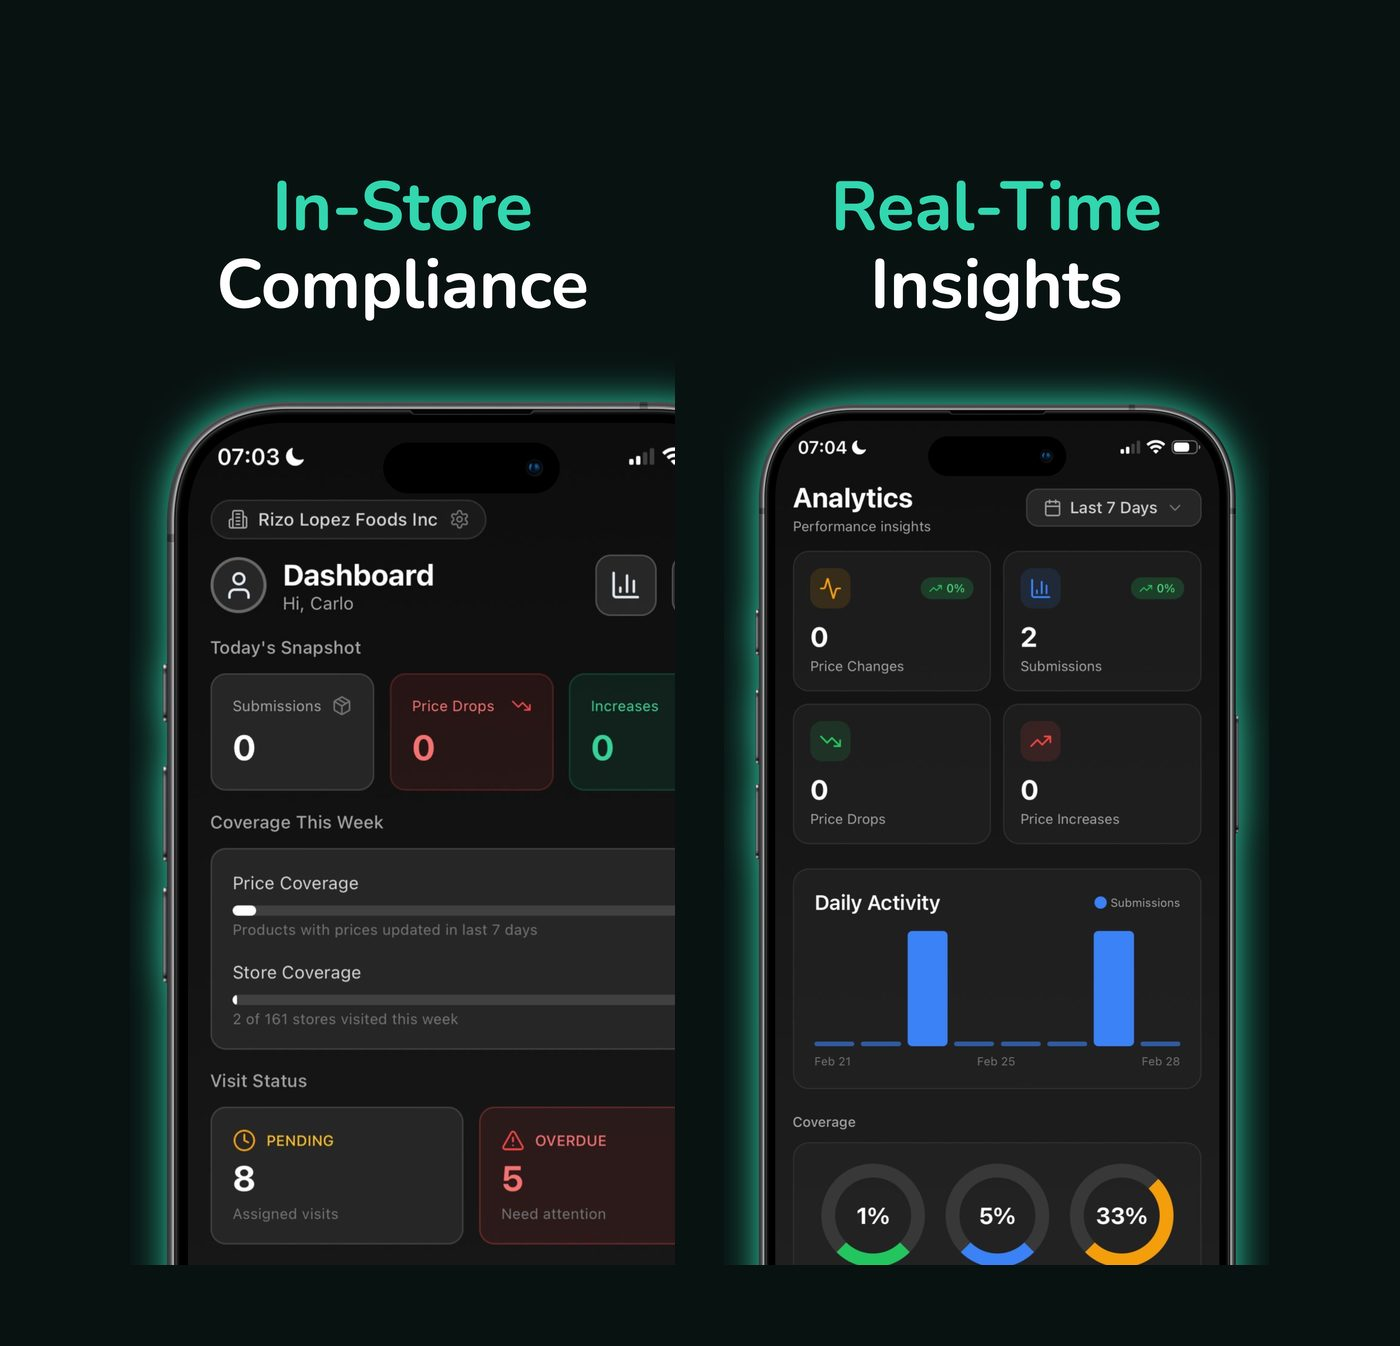
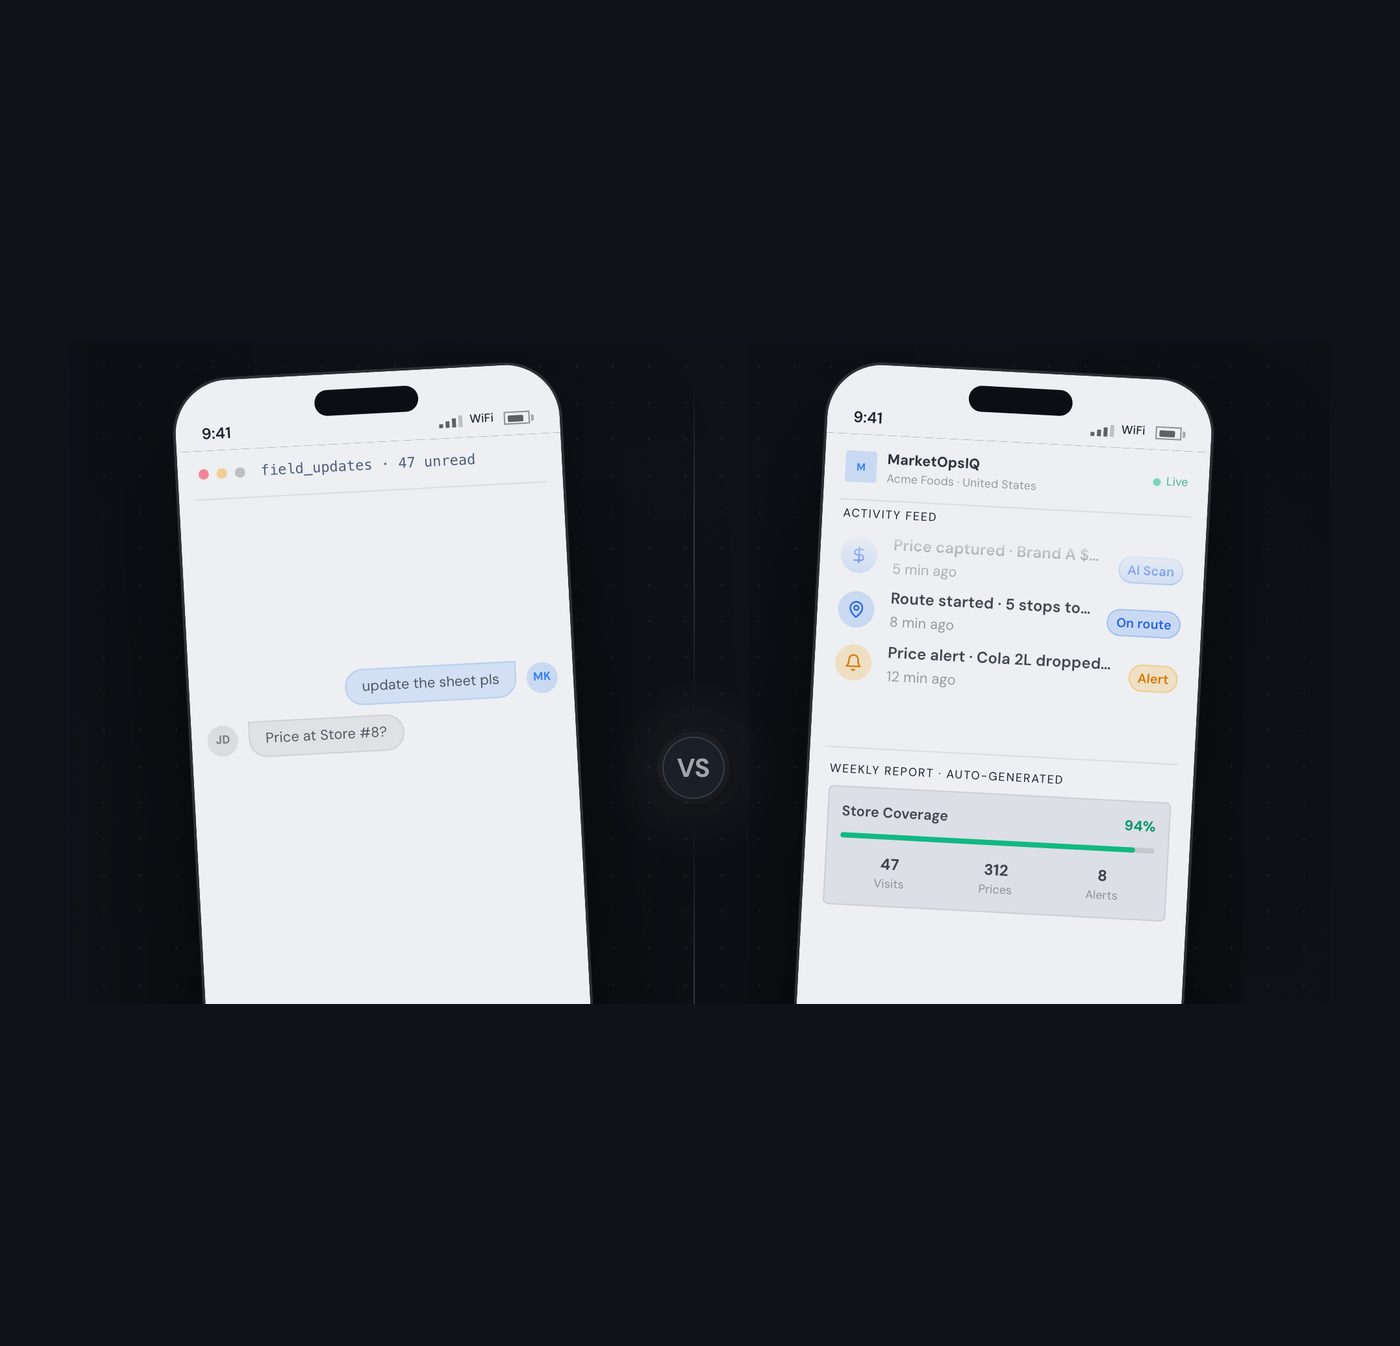
MarketOpsIQ: real product imagery, and discipline labels on the role line
- The case study was running on App Store marketing art. The dashboard
  itself sits behind a login I do not have, so the product imagery now
  comes from the current marketopsiq.com, captured at 2x with
  tools/shot.mjs at three scroll positions: the four dashboard cards
  (what the home row shows), the phone-and-report pair, and the
  chat-versus-app comparison.
- Interfaces are fitted onto the product's own background rather than
  cropped (new fit_on helper), because cover() was cutting the edge off
  every panel and a screenshot loses its meaning that way.
- Worth knowing: half the App Store exports in Downloads are watermarked
  "appscreens" from a trial export. The build only ever used the clean
  folder, and now uses it just for the two single-phone images.
- Role reads as a discipline line now, "Product design & development"
  rather than "Design & build, solo". The description still says Lexfall
  was built alone, which is where that belongs.

diff --git a/content/projects.ts b/content/projects.ts
@@ -96,7 +96,7 @@ export const caseStudies: CaseStudy[] = [
       "Lexfall is a minimalist vocabulary app for advanced and native English speakers. It serves C1 to C2 words chosen for your field, from medicine and law to business, and delivers them to your Home and Lock Screen so you learn without opening the app. Designed, built and launched solo in 2026, with paying subscribers in its first month.",
     ],
     details: [
-      { label: "Role", value: "Design & build, solo" },
+      { label: "Role", value: "Product design & development" },
       { label: "Year", value: "2026" },
       { label: "Industry", value: "Consumer, EdTech" },
       { label: "Platform", value: "iOS, Android soon" },
@@ -143,7 +143,7 @@ export const caseStudies: CaseStudy[] = [
       "Zharo is a Chrome extension that lives inside LinkedIn. It learns how you write, scores which posts are worth your time, and drafts comments and posts in your voice, right where you're already scrolling.",
     ],
     details: [
-      { label: "Role", value: "Design & build" },
+      { label: "Role", value: "Product design & development" },
       { label: "Year", value: "2026" },
       { label: "Industry", value: "AI, creator tools" },
       { label: "Platform", value: "Chrome extension" },
@@ -185,7 +185,7 @@ export const caseStudies: CaseStudy[] = [
       "MarketOpsIQ replaces spreadsheets, group chats and manual store reports for CPG field teams. Merchandisers snap a shelf photo, AI reads every price, and managers see verified visits, competitor prices and alerts in one place. Taken from zero to two paid pilots with CPG brands.",
     ],
     details: [
-      { label: "Role", value: "Product, design & build" },
+      { label: "Role", value: "Product, design & development" },
       { label: "Year", value: "2025 - now" },
       { label: "Industry", value: "B2B SaaS, CPG" },
       { label: "Platform", value: "iOS, Android & web" },
